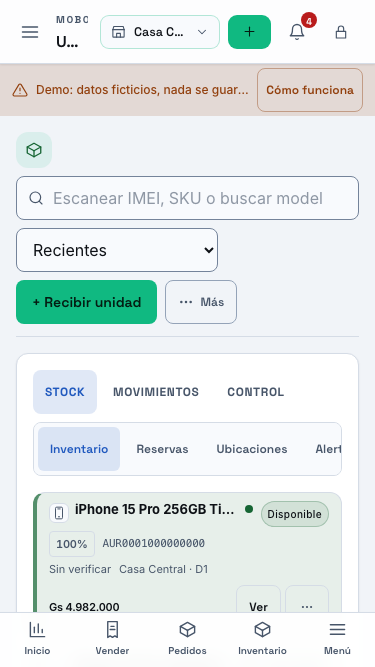
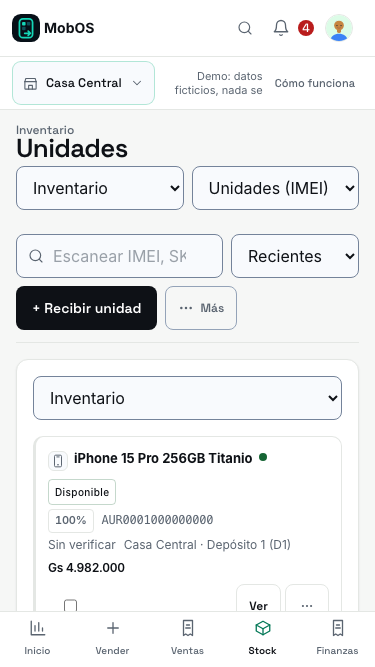
fix(ui): densidad móvil del shell e inventario para que el primer equipo entre en 375x667

diff --git a/src/components/app/AppShell.jsx b/src/components/app/AppShell.jsx
@@ -11,6 +11,7 @@ import PanelNotificaciones from '@/components/app/PanelNotificaciones'
 import ComoFuncionaDemo from '@/components/app/ComoFuncionaDemo'
 import PanelColaOffline from '@/components/ventas/PanelColaOffline'
 import SectionSelector from '@/components/app/SectionSelector'
+import { usePantallaAngosta } from '@/hooks/usePantallaAngosta'
 import { useOnlineStatus } from '@/hooks/useOnlineStatus'
 import { useColaOffline } from '@/hooks/useColaOffline'
 import { sincronizarEventosWebPush, sincronizarWebPush } from '@/lib/webPush'
@@ -189,6 +190,17 @@ export default function AppShell({
         )}
       </button>
     )
+  const angosta = usePantallaAngosta()
+  const botonComoFunciona = (
+    <button
+      type="button"
+      data-testid="demo-como-funciona"
+      onClick={() => setComoFunciona(true)}
+      className="min-h-11 shrink-0 px-2"
+    >
+      Cómo funciona
+    </button>
+  )
   const offlineButton = testid =>
     avisoCola && (
       <button
@@ -292,7 +304,15 @@ export default function AppShell({
             data-testid="shell-sucursal-mobile"
             className="flex min-w-0 items-center justify-between gap-2 border-t border-ink-600 px-3 py-1"
           >
-            <SelectorSucursal className="max-w-full" />
+            <SelectorSucursal className="max-w-full shrink-0" />
+            {/* #304: en móvil el aviso del demo comparte la fila de la sucursal
+                (una sola barra en vez de dos) y deja más lugar al trabajo. */}
+            {esDemo && angosta && (
+              <div role="status" className="flex min-w-0 flex-1 items-center justify-end gap-1 text-[11px] leading-[14px] text-mute">
+                <span className="line-clamp-2 min-w-0 text-right" title="Modo demo: datos ficticios, nada se guarda.">Demo: datos ficticios, nada se guarda.</span>
+                {botonComoFunciona}
+              </div>
+            )}
             {offlineButton('shell-cola-offline-pill')}
           </div>
         </header>
@@ -301,27 +321,16 @@ export default function AppShell({
             Sin conexión: los datos pueden estar desactualizados. Se sincroniza al reconectar.
           </div>
         )}
-        {esDemo && (
+        {esDemo && !angosta && (
           <div
             role="status"
             className="flex items-center justify-between gap-2 border-b border-ink-600 bg-ink px-4 py-1 text-xs text-mute"
           >
-            {/* #304: en móvil el aviso es una línea compacta; el completo queda en escritorio. */}
-            <span className="hidden sm:inline">
-              Modo demo: datos ficticios, nada se guarda.
-            </span>
-            <span className="truncate sm:hidden">Demo: datos ficticios, nada se guarda.</span>
-            <button
-              type="button"
-              data-testid="demo-como-funciona"
-              onClick={() => setComoFunciona(true)}
-              className="min-h-11 shrink-0 px-2"
-            >
-              Cómo funciona
-            </button>
+            <span>Demo: datos ficticios, nada se guarda.</span>
+            {botonComoFunciona}
           </div>
         )}
-        <div className="px-4 pt-5 md:px-8">
+        <div className="px-4 pt-3 md:px-8 md:pt-5">
           <nav
             data-testid="shell-breadcrumb"
             aria-label="Sección actual"
@@ -335,7 +344,7 @@ export default function AppShell({
           </div>
           {subtitle && <p className="text-sm text-mute">{subtitle}</p>}
           {currentSection && (contextGroups.length > 1 || currentGroup?.items.length > 1) && (
-            <div className="mt-3">
+            <div className={cn('mt-2 lg:mt-3 lg:block', currentGroup?.items.length > 1 && 'grid grid-cols-2 gap-x-2')}>
               <SectionSelector
                 testId="shell-contexto"
                 label={`Áreas de ${currentSection.label}`}

diff --git a/src/components/control/Inventario.jsx b/src/components/control/Inventario.jsx
@@ -2024,10 +2024,10 @@ export default function Inventario({ tab: tabProp, onTabChange } = {}) {
         expandir
         contexto={productoFiltro ? <span data-testid="inventario-filtro-producto" className="inline-flex min-w-0 max-w-[16rem] items-center gap-1.5 rounded-lg border border-fono/30 bg-fono/5 px-2 py-1 text-[11px] text-fono-light" title={`Unidades de ${productoFiltro.nombre}`}><Icon name="phone" className="h-3 w-3 shrink-0" /><span className="truncate font-semibold">{productoFiltro.nombre}</span><button type="button" aria-label="Quitar el filtro de producto" title="Ver todas las unidades" onClick={() => setSearchParams((actuales) => { const params = new URLSearchParams(actuales); params.delete('producto'); return params }, { replace: true })} className="toque-44 shrink-0 rounded px-1 text-mute transition hover:text-fore">×</button></span> : null}
       >
-        <form onSubmit={search} className="min-w-[10rem] max-w-sm flex-1">
+        <form onSubmit={search} className="min-w-[10rem] max-w-sm flex-1 basis-0">
           <SearchField value={query} onChange={event => setQuery(event.target.value)} placeholder="Escanear IMEI, SKU o buscar modelo" ariaLabel="Buscar en inventario" className="w-full" />
         </form>
-        <Select value={orden} onChange={event => recordarOrden(event.target.value)} className="w-auto min-w-0 max-w-full shrink" aria-label="Orden del inventario" title="Se recuerda tu último orden"><option value="recientes">Recientes</option><option value="modelo-az">Modelo A→Z</option><option value="modelo-za">Modelo Z→A</option><option value="nuevos">Nuevos primero</option><option value="semis">Seminuevos primero</option><option value="modelo-natural">Modelo (17→13)</option><option value="mezclado">Modelos mezclados</option><option value="costo-mayor">Costo mayor</option><option value="costo-menor">Costo menor</option></Select>
+        <Select value={orden} onChange={event => recordarOrden(event.target.value)} className="w-auto min-w-0 max-w-[8rem] shrink sm:max-w-full" aria-label="Orden del inventario" title="Se recuerda tu último orden"><option value="recientes">Recientes</option><option value="modelo-az">Modelo A→Z</option><option value="modelo-za">Modelo Z→A</option><option value="nuevos">Nuevos primero</option><option value="semis">Seminuevos primero</option><option value="modelo-natural">Modelo (17→13)</option><option value="mezclado">Modelos mezclados</option><option value="costo-mayor">Costo mayor</option><option value="costo-menor">Costo menor</option></Select>
         {!esMovil && <ListGridToggle value={vistaUnidades} onChange={cambiarVistaUnidades} />}
         {/* #287: Productos ⇄ Unidades, el mismo objeto en dos vistas.
             #304: en móvil el switch se oculta (el menú ya tiene ambas vistas)

diff --git a/src/components/shared/BarraModulo.jsx b/src/components/shared/BarraModulo.jsx
@@ -15,7 +15,7 @@ export default function BarraModulo({ icono, titulo, descripcion, contexto, chil
       aria-label={titulo}
       className={cn('flex min-w-0 flex-wrap items-center gap-x-3 gap-y-2 border-b border-ink-600 pb-3', className)}
     >
-      <div className={cn('flex items-center gap-2.5', expandir ? 'min-w-0 sm:min-w-[11rem] max-w-[14rem] shrink' : 'min-w-0 sm:min-w-[11rem] flex-1')}>
+      <div className={cn('items-center gap-2.5', !contexto && 'hidden sm:flex', contexto && 'flex', expandir ? 'min-w-0 sm:min-w-[11rem] max-w-[14rem] shrink' : 'min-w-0 sm:min-w-[11rem] flex-1')}>
         {icono && (
           <span aria-hidden className="grid h-9 w-9 shrink-0 place-items-center rounded-xl bg-fono/10 text-fono-light">
             <Icon name={icono} className="h-[18px] w-[18px]" />

diff --git a/src/components/app/SectionSelector.jsx b/src/components/app/SectionSelector.jsx
@@ -12,7 +12,7 @@ export default function SectionSelector({
   if (!items.length) return null
   const options = items.map(item => (Array.isArray(item) ? item : [item.id, item.label]))
   return (
-    <div data-testid={testId} className="shell-section-selector mb-4 min-w-0">
+    <div data-testid={testId} className="shell-section-selector mb-2 min-w-0 lg:mb-4">
       <Select
         aria-label={label}
         value={value || ''}
